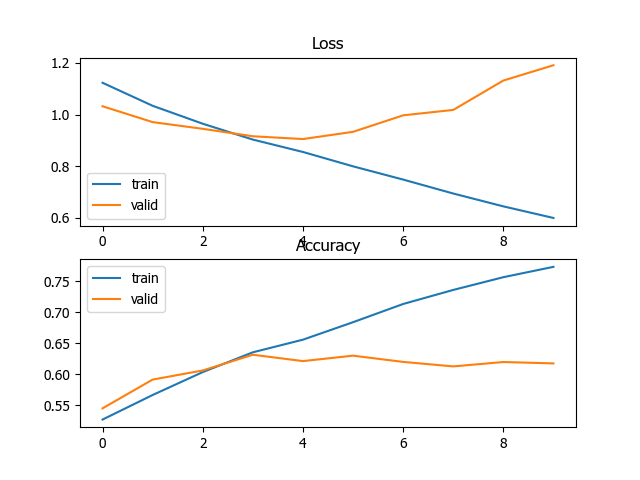
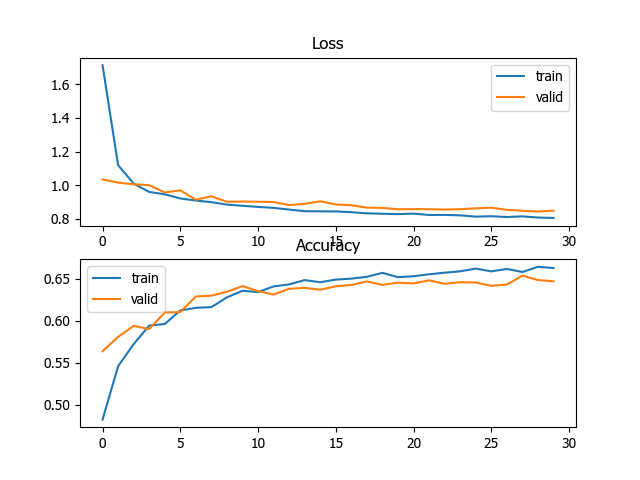
completed cnn with good f1-score.

diff --git a/src/models/CNN.py b/src/models/CNN.py
@@ -1,5 +1,6 @@
 """_supporting random embeddings and word2vec embedding_
 """
+from enum import unique
 from msilib import sequence
 import sys
 import pandas as pd 
@@ -11,7 +12,7 @@ from keras.preprocessing.text import Tokenizer
 from keras.preprocessing.sequence import pad_sequences
 from keras.models import Sequential, Model
 from keras import layers
-from keras.layers.core import Reshape, Flatten
+from keras.layers.core import Reshape
 from keras.layers import Input, Dense, Embedding, Conv2D, MaxPooling2D, Dropout,concatenate
 from tensorflow.keras.utils import to_categorical
 from sklearn.metrics import classification_report
@@ -19,8 +20,9 @@ from sklearn.metrics import accuracy_score, precision_score, recall_score, matth
 from matplotlib import pyplot
 import src.utilities as utils
 import src.feature.build_features as bf
-from src.models.metrics import test
+from src.models.metrics import test, f1_m
 import tensorflow as tf
+import tensorflow_addons as tfa
 
 
 print("Num GPUs Available: ", len(tf.config.list_physical_devices('GPU')))
@@ -34,6 +36,7 @@ df_ds = pd.read_csv(config['data']['processed_ws'])
 iname = sys.argv[1]
 
 y_ds = df_ds['target'].astype('category').cat.codes
+f1 = tfa.metrics.F1Score(num_classes=df_ds['target'].unique().shape[0], average='macro')
 
 Xo = df_ds['processed']
 yo = y_ds.to_numpy()
@@ -105,53 +108,39 @@ for item in range(9, 10):
     if iname == 'w2v':
         model = Sequential()
         model.add(gensim_to_keras_embedding(w2v, True))
-        # model = Sequential()
-        # model.add(layers.Embedding(vocab_size, EMBEDDING_DIM, input_length=MAX_SEQUENCE_LENGTH))
-        model.add(layers.Conv2D(128, 3, activation='relu')) 
-        model.add(layers.GlobalMaxPooling2D())
-        # ANN layers
-        model.add(layers.Dense(32, activation='relu'))
-        model.add(layers.Dense(16, activation='relu'))
-        model.add(layers.Dense(8, activation='relu'))
+        #model.add(layers.Embedding(vocab_size, EMBEDDING_DIM, input_length=MAX_SEQUENCE_LENGTH))
+        
+        model.add(layers.Dropout(0.5))
+        model.add(layers.Conv1D(128, 3, activation='relu'))
+        model.add(layers.GlobalMaxPooling1D())
         model.add(layers.Dropout(0.5))
         model.add(layers.Dense(4, activation='softmax'))
-        
     elif iname == 'w2v2d':
         
         sequence_length = X_train_ps.shape[1]
         encoder_input = Input(shape=(sequence_length,))
         emb = embedding_layer(encoder_input)
-        reshape = Reshape((sequence_length,EMBEDDING_DIM,1))(emb)
+        reshape = Reshape((sequence_length, EMBEDDING_DIM, 1))(emb)
         conv = layers.Conv2D(128, 3, activation='relu')(reshape)
-        max_pool = layers.GlobalMaxPooling2D()(conv)
-        dense_1 = layers.Dense(32, activation='relu')(max_pool)
-        dense_2 = layers.Dense(16, activation='relu')(dense_1)
-        flatten = layers.Flatten()(dense_2)
+        max_pool_1 = layers.MaxPooling2D(2,2)(conv)
+        conv_1 = layers.Conv2D(128, 3, activation='relu')(max_pool_1)
+        max_pool_2 = layers.MaxPooling2D(2,2)(conv_1)
+        flatten = layers.Flatten()(max_pool_2)
         drop = layers.Dropout(0.5)(flatten)
         output = layers.Dense(4, activation='softmax')(drop)
         model = Model(encoder_input, output)
-        
-        # sequence_length = X_train_ps.shape[1]
-        # model = Sequential()
-        # input = layers.Input(shape=(sequence_length,))
-        # emb = embedding_layer(input)
-        # model.add(layers.Reshape((sequence_length,EMBEDDING_DIM, 1))) 
-        # model.add(Reshape((sequence_length, EMBEDDING_DIM, 1)))
-        # model.add(layers.Conv2D(128, 3, activation='relu'))
-        # model.add(layers.GlobalMaxPooling2D())
-        # model.add(layers.Flatten())
-        # model.add(layers.Dense(4, activation='softmax'))
-        # model.build(input)
+
+        #model.build(input)
     model.compile(optimizer='adam',
                 loss='categorical_crossentropy',
-                metrics=['accuracy'])
+                metrics=['accuracy', f1])
     model.summary()
 
     # fit the model
     history = model.fit(X_train_ps, y_c,
-                        epochs=10,
+                        epochs=30,
                         validation_data=(X_val_ps, yv_c),
-                        batch_size=20)
+                        batch_size=50)
 
     # evaluate model
     scores = model.evaluate(X_val_ps, yv_c, verbose=1)
@@ -168,10 +157,13 @@ for item in range(9, 10):
     f1_sc = 2*pre_sc*rec_sc/(pre_sc+rec_sc)
     auc_sc = roc_auc_score(yv, y_pred_prob, multi_class='ovo', average='macro')
     file.write(str(item) + "," +str(acc_sc) + "," + str(pre_sc) + "," + str(rec_sc) + "," + str(mcc_sc) + "," + str(auc_sc) + "," + str(f1_sc) + "\n")
-file.close()
+    
+    # test with unseen data
+    # combine train and valid as a training set
+    history = model.fit( np.vstack(X_train_ps, X_val_ps), np.hstack(y_c, yv_c), epochs=30, validation_data=(X_test_ps, yt_c), batch_size=50 )
 
-# test with unseen data 
 
+# for investigation
 print(classification_report(rounded_labels, y_pred))
 
 # plot loss during training

diff --git a/src/models/metrics.py b/src/models/metrics.py
@@ -1,8 +1,8 @@
 from sklearn.model_selection import cross_val_score
 from sklearn.metrics import accuracy_score, f1_score, precision_score, recall_score, matthews_corrcoef, roc_auc_score
-from sklearn.metrics import precision_recall_fscore_support
+from keras import backend as K
 
-__all__ = ['CV', 'test']
+__all__ = ['CV', 'test', 'f1_m']
 
 def CV(model, X_train, y_train, X_valid, y_valid):
     scores = (cross_val_score(model, X_train, y_train, cv = 5).mean())
@@ -13,6 +13,7 @@ def CV(model, X_train, y_train, X_valid, y_valid):
     rec_sc = recall_score(y_valid, y_pred, average='weighted')
     f1_sc = f1_score(y_valid, y_pred, average='weighted')
     return acc_sc, pre_sc, rec_sc, f1_sc, scores
+
 
         
 def test(clf, X, y, Xt, yt):
@@ -28,3 +29,5 @@ def test(clf, X, y, Xt, yt):
     AUC = roc_auc_score(test_y,pr,multi_class='ovo',average='macro')
     F1 = 2*SENS*SPEC/(SENS+SPEC)
     return ACC, SENS, SPEC, MCC, AUC, F1
+
+
